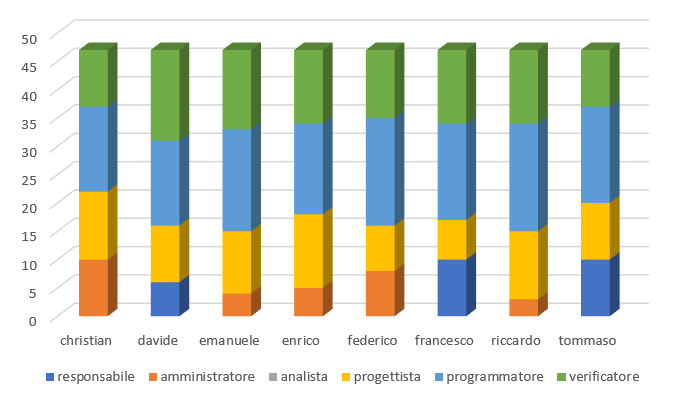
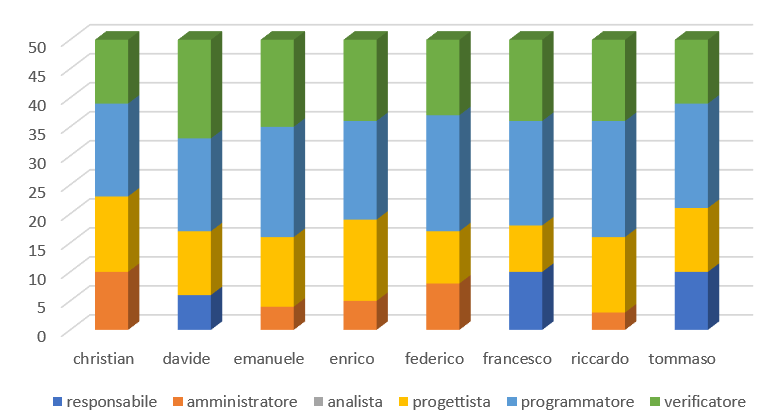
Correzione preventivo per raggiungere la soglia minima

diff --git a/DocumentazioneEsterna/PianoDiProgetto/sezioni/Preventivo.tex b/DocumentazioneEsterna/PianoDiProgetto/sezioni/Preventivo.tex
@@ -219,15 +219,15 @@ La seguente tabella rappresenta la distribuzione oraria dei ruoli per ogni compo
 	\textcolor{white}{\textbf{Ore complessive}}\\
 \endhead	
         
-        \MC{} & & 10 & & 12 & 15 & 10 & 47\\
-        \LD{} & 6 & & & 10 & 15 & 16 & 47\\
-        \CE{} & & 5 & & 13 & 16 & 13 & 47 \\
-        \SE{} & & 4 & & 11 & 18 & 14 & 47\\
-        \PF{} & & 8 & & 8 & 19 & 12 & 47\\
-        \DF{} & 10 & & & 7 & 17 & 13 & 47\\
-        \BR{} & & 3 & & 12 & 19 & 13 & 47\\
-       \AT{} & 10 & & & 10 & 17 & 10 & 47 \\
-        \textbf{Ore totali ruolo} & 26 & 30 & & 83 & 136 & 101 & 376\\
+        \MC{} & & 10 & & 13 & 16 & 11 & 50\\
+        \LD{} & 6 & & & 11 & 16 & 17 & 50\\
+        \CE{} & & 5 & & 14 & 17 & 14 & 50 \\
+        \SE{} & & 4 & & 12 & 19 & 15 & 50\\
+        \PF{} & & 8 & & 9 & 20 & 13 & 50\\
+        \DF{} & 10 & & & 8 & 18 & 14 & 50\\
+        \BR{} & & 3 & & 13 & 20 & 14 & 50\\
+       \AT{} & 10 & & & 11 & 18 & 11 & 50 \\
+        \textbf{Ore totali ruolo} & 26 & 30 & & 91 & 144 & 109 & 400\\
 		
 	\end{longtable}
 
@@ -262,10 +262,10 @@ La seguente tabella rappresenta, per ruolo, le ore totali investite e il corrisp
         Responsabile & 26 & 780 \\
         Amministratore & 30 & 600 \\
         Analista & 0 & 0 \\
-        Progettista & 83 & 1826 \\
-        Programmatore & 136 & 2040 \\
-        Verificatore & 101 & 1515\\
-        \textbf{Totale} & 376 & 6761 \\
+        Progettista & 91 & 2002 \\
+        Programmatore & 144 & 2160 \\
+        Verificatore & 109 & 1635 \\
+        \textbf{Totale} & 400 & 7177 \\
 		
 	\end{longtable}
 
@@ -275,7 +275,7 @@ La suddivisione della quantità di ore totali per ciascun ruolo viene rappresent
 
 \begin{figure}[h]
 	\centering	
-	\includegraphics[scale=3.0]{Sezioni/Aerogrammi/AerogrammaDiDettaglio.png}
+	\includegraphics[scale=2.0]{Sezioni/Aerogrammi/AerogrammaDiDettaglio.png}
 	\caption{Suddivisione ore per ruolo della fase di Progettazione di Dettaglio e Codifica}
 \end{figure}
 
@@ -388,15 +388,15 @@ Nella seguente tabella viene mostrata la distribuzione oraria dei ruoli per ogni
 		\textcolor{white}{\textbf{Ore complessive}}\\	
 		\endhead
         
-        \MC{} & 5 & 10 & 7 & 26 & 29 & 22 & 99 \\
-        \LD{} & 14 & 4 & & 33 & 15 & 33 & 99\\
-        \CE{} & 5 & 13 & & 23 & 27 & 31 & 99 \\
-        \SE{} & & 14 & 6 & 27 & 23 & 29 & 99\\
-        \PF{} & 6 & 14 & & 13 & 33 & 33 & 99\\
-        \DF{} & 10 & 6 & 13 & 12 & 33 & 25 & 99 \\
-        \BR{} & 6 & 8 & & 12 & 42 & 31 & 99 \\
-       \AT{} & 10 & & 12 & 27 & 17 & 33 & 99 \\
-        \textbf{Ore totali ruolo} & 56 & 69 & 38 & 173 & 219 & 237 &  792 \\
+        \MC{} & 5 & 10 & 7 & 27 & 30 & 23 & 102 \\
+        \LD{} & 14 & 4 & & 34 & 16 & 34 & 102\\
+        \CE{} & 5 & 13 & & 24 & 28 & 32 & 102 \\
+        \SE{} & & 14 & 6 & 28 & 24 & 30 & 102\\
+        \PF{} & 6 & 14 & & 14 & 34 & 34 & 102\\
+        \DF{} & 10 & 6 & 13 & 13 & 34 & 26 & 102 \\
+        \BR{} & 6 & 8 & & 13 & 43 & 32 & 102 \\
+        \AT{} & 10 & & 12 & 28 & 18 & 34 & 102 \\
+        \textbf{Ore totali ruolo} & 56 & 69 & 38 & 181 & 227 & 245 &  816 \\
 
 	\end{longtable}
 
@@ -418,9 +418,9 @@ Nella seguente tabella viene illustrato il monte ore risultante per ogni ruolo c
         Responsabile & 56 &  1680\\
         Amministratore & 69 & 1380 \\
         Analista & 38 & 950 \\
-        Progettista & 173 & 3806 \\
-        Programmatore & 219 & 3285 \\
-        Verificatore & 237 & 3555 \\
+        Progettista & 181 & 3982 \\
+        Programmatore & 227 & 3405 \\
+        Verificatore & 245 & 3675 \\
         	
 	\end{longtable}
 
@@ -441,9 +441,9 @@ Nella seguente tabella vengono riportati i costi complessivi delle varie fasi e 
 		\endhead
 		
 		Progettazione Architetturale & 4923 \\
-		Progettazione di Dettaglio e Codifica & 6761 \\
+		Progettazione di Dettaglio e Codifica & 7177 \\
 		Validazione e Collaudo & 2972 \\
-		\textbf{Totale} & 14656\\
+		\textbf{Totale} & 15072\\
 		
 	\end{longtable}
 
